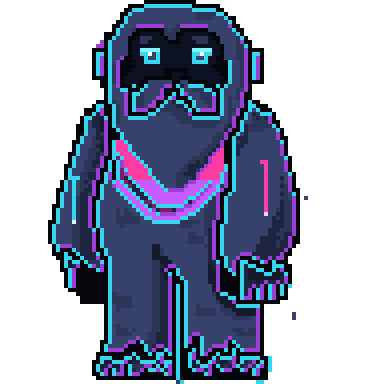
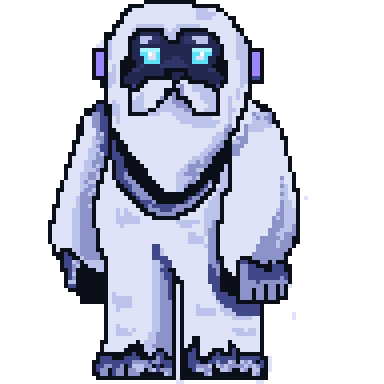
marketplace changes

diff --git a/src/data/wearableArt.js b/src/data/wearableArt.js
@@ -234,25 +234,70 @@ function glasses() {
   return { front: p };
 }
 
+// Frost Scarf in the device animation's colours (public/fuchey_animation.html:
+// coral band, darker coral tail, light stripe blocks), wrapped around the neck
+// just under the beard instead of floating across the chest.
 function scarf() {
   const p = canvas();
-  const stripe = (x) => (Math.floor(x / 3) % 2 ? "#eef6fa" : "#8fbccb");
-  p.span(26, 29, 58, stripe);
-  for (let y = 27; y <= 30; y++) p.span(y, 26, 61, stripe);
-  p.span(31, 28, 59, stripe);
-  p.span(31, 28, 59, (x) => (Math.floor(x / 3) % 2 ? "#c9dde5" : "#6e9fb2"));
-  // Knot + tail
-  p.rect(50, 28, 56, 33, "#8fbccb");
-  p.span(28, 51, 55, "#b9d8e2");
-  const tail = (y) => (Math.floor(y / 3) % 2 ? "#eef6fa" : "#8fbccb");
-  for (let y = 34; y <= 46; y++) {
-    const shift = y > 40 ? 1 : 0;
-    p.span(y, 51 + shift, 55 + shift, () => tail(y));
+  const coral = "#f08a64";
+  const shade = "#d8704e";
+  const light = "#ffd3bf";
+
+  // Band hugging the neck, following the shoulder line
+  p.span(28, 28, 59, coral);
+  p.span(29, 26, 61, coral);
+  p.span(30, 26, 61, coral);
+  p.span(31, 26, 61, coral);
+  p.span(32, 28, 59, coral);
+  p.span(28, 30, 57, "#f7a585");
+  p.span(32, 28, 59, shade);
+  [30, 37, 44].forEach((x) => p.rect(x, 30, x + 2, 30, light));
+
+  // Knot on the right and a tail that hangs down the chest
+  p.rect(49, 29, 55, 34, shade);
+  p.span(29, 50, 54, coral);
+  for (let y = 35; y <= 47; y++) {
+    const sway = y > 41 ? 1 : 0;
+    p.span(y, 50 + sway, 55 + sway, y % 6 === 2 ? light : y >= 46 ? shade : coral);
+    p.set(55 + sway, y, shade);
   }
-  p.span(46, 52, 56, "#6e9fb2");
-  p.outline("#24485f");
+  p.outline("#7a3a24");
   // Fringe
-  [52, 54, 56].forEach((x) => p.set(x, 48, "#eef6fa"));
+  [51, 53, 55].forEach((x) => p.set(x, 49, light));
+  return { front: p };
+}
+
+// The Snow Globe from the device's wardrobe screen, set down beside the Yeti
+// like a little keepsake.
+function snowGlobe() {
+  const p = canvas();
+  const cx = 80;
+  const cy = 81;
+  const r = 8.4;
+  for (let y = cy - 9; y <= cy + 9; y++) {
+    for (let x = cx - 9; x <= cx + 9; x++) {
+      const d = Math.hypot(x - cx, y - cy);
+      if (d <= r && y <= cy + 6) p.set(x, y, d > r - 1.2 ? "#9cc8da" : "#d6ecf6");
+    }
+  }
+  // Snowy ground and a tiny pine inside the glass
+  p.span(cy + 5, cx - 6, cx + 6, "#ffffff");
+  p.span(cy + 6, cx - 5, cx + 5, "#eef6fa");
+  const pine = [[0, -5], [-1, -4], [0, -4], [1, -4], [-1, -3], [0, -3], [1, -3], [-2, -2], [-1, -2], [0, -2], [1, -2], [2, -2], [-2, -1], [-1, -1], [0, -1], [1, -1], [2, -1], [-3, 0], [-2, 0], [-1, 0], [0, 0], [1, 0], [2, 0], [3, 0], [-3, 1], [-2, 1], [-1, 1], [0, 1], [1, 1], [2, 1], [3, 1]];
+  pine.forEach(([dx, dy]) => p.set(cx + dx, cy + dy + 2, dx < 0 ? "#3f8f6b" : "#2f7556"));
+  p.set(cx, cy - 3, "#5fb88c");
+  p.rect(cx, cy + 4, cx, cy + 4, "#6e5a4a");
+  [[-5, -3], [4, -6], [5, -1], [-4, 2], [2, -4], [-2, -6]].forEach(([dx, dy]) => p.set(cx + dx, cy + dy, "#ffffff"));
+  // Glint
+  p.set(cx - 5, cy - 5, "#ffffff");
+  p.set(cx - 6, cy - 4, "#ffffff");
+  p.set(cx - 6, cy - 3, "#ffffff");
+  // Wooden base sitting on the ground line
+  p.span(cy + 7, cx - 7, cx + 7, "#8a6f58");
+  p.rect(cx - 8, cy + 8, cx + 8, cy + 10, "#6e5a4a");
+  p.span(cy + 11, cx - 7, cx + 7, "#4f4034");
+  p.rect(cx - 1, cy + 9, cx + 1, cy + 9, "#f2c14e");
+  p.outline("#2a3442");
   return { front: p };
 }
 
@@ -395,6 +440,7 @@ const DRAW = {
   "dev-visor": visor,
   "pixel-glasses": glasses,
   "frost-scarf": scarf,
+  "snow-globe": snowGlobe,
   "explorer-jacket": jacket,
   "circuit-hoodie": hoodie,
   "solana-backpack": backpack,
@@ -402,7 +448,7 @@ const DRAW = {
 };
 
 // Stacking order on the character, back to front.
-export const SLOT_ORDER = ["outfit", "backpack", "accessory", "headwear", "hat", "special"];
+export const SLOT_ORDER = ["outfit", "backpack", "accessory", "headwear", "hat", "held", "special"];
 
 function bounds(runs) {
   let x0 = Infinity, y0 = Infinity, x1 = -Infinity, y1 = -Infinity;

diff --git a/src/data/characters.js b/src/data/characters.js
@@ -31,7 +31,7 @@ export const characters = [
       { trait_type: "Mood", value: "Friendly" },
       { trait_type: "Habitat", value: "Glacier" },
     ],
-    wardrobeSlots: ["hat", "headwear", "outfit", "accessory", "backpack", "special"],
+    wardrobeSlots: ["hat", "headwear", "outfit", "accessory", "backpack", "held", "special"],
     listing: {
       status: "available",
       price: 0,
@@ -49,7 +49,7 @@ export const characters = [
     rarity: "rare",
     quote: "Build with Fuchey.",
     description:
-      "A night-shift Yeti rewired for builders. Neon harness, glowing eyes, and a soft spot for green test suites — Cyber pings on every invoke.",
+      "A night-shift Yeti for builders. Glowing eyes, soft midnight fur, and a soft spot for green test suites — Cyber pings on every invoke.",
     art: { kind: "character", image: "cyber" },
     attributes: [
       { trait_type: "Character", value: "Cyber" },
@@ -57,7 +57,7 @@ export const characters = [
       { trait_type: "Mood", value: "Focused" },
       { trait_type: "Habitat", value: "Terminal" },
     ],
-    wardrobeSlots: ["hat", "headwear", "outfit", "accessory", "backpack", "special"],
+    wardrobeSlots: ["hat", "headwear", "outfit", "accessory", "backpack", "held", "special"],
     listing: {
       status: "available",
       price: 0.5,

diff --git a/src/data/wearables.js b/src/data/wearables.js
@@ -93,6 +93,16 @@ export const wearables = [
     listing: { status: "available", price: 0.25, supply: 1500 },
   },
   {
+    id: "snow-globe",
+    name: "Snow Globe",
+    type: "held",
+    rarity: "epic",
+    description: "A tiny winter in a jar. Give it a shake and watch the flakes settle.",
+    art: { kind: "wearable" },
+    compatibleCharacters: ["yeti", "cyber"],
+    listing: { status: "available", price: 0.75, supply: 500 },
+  },
+  {
     id: "genesis-halo",
     name: "Genesis Halo",
     type: "special",

diff --git a/src/data/taxonomy.js b/src/data/taxonomy.js
@@ -15,6 +15,7 @@ export const WEARABLE_TYPES = [
   { id: "outfit", label: "Outfits" },
   { id: "accessory", label: "Accessories" },
   { id: "backpack", label: "Backpacks" },
+  { id: "held", label: "Held Items" },
   { id: "special", label: "Special Items" },
 ];
 
